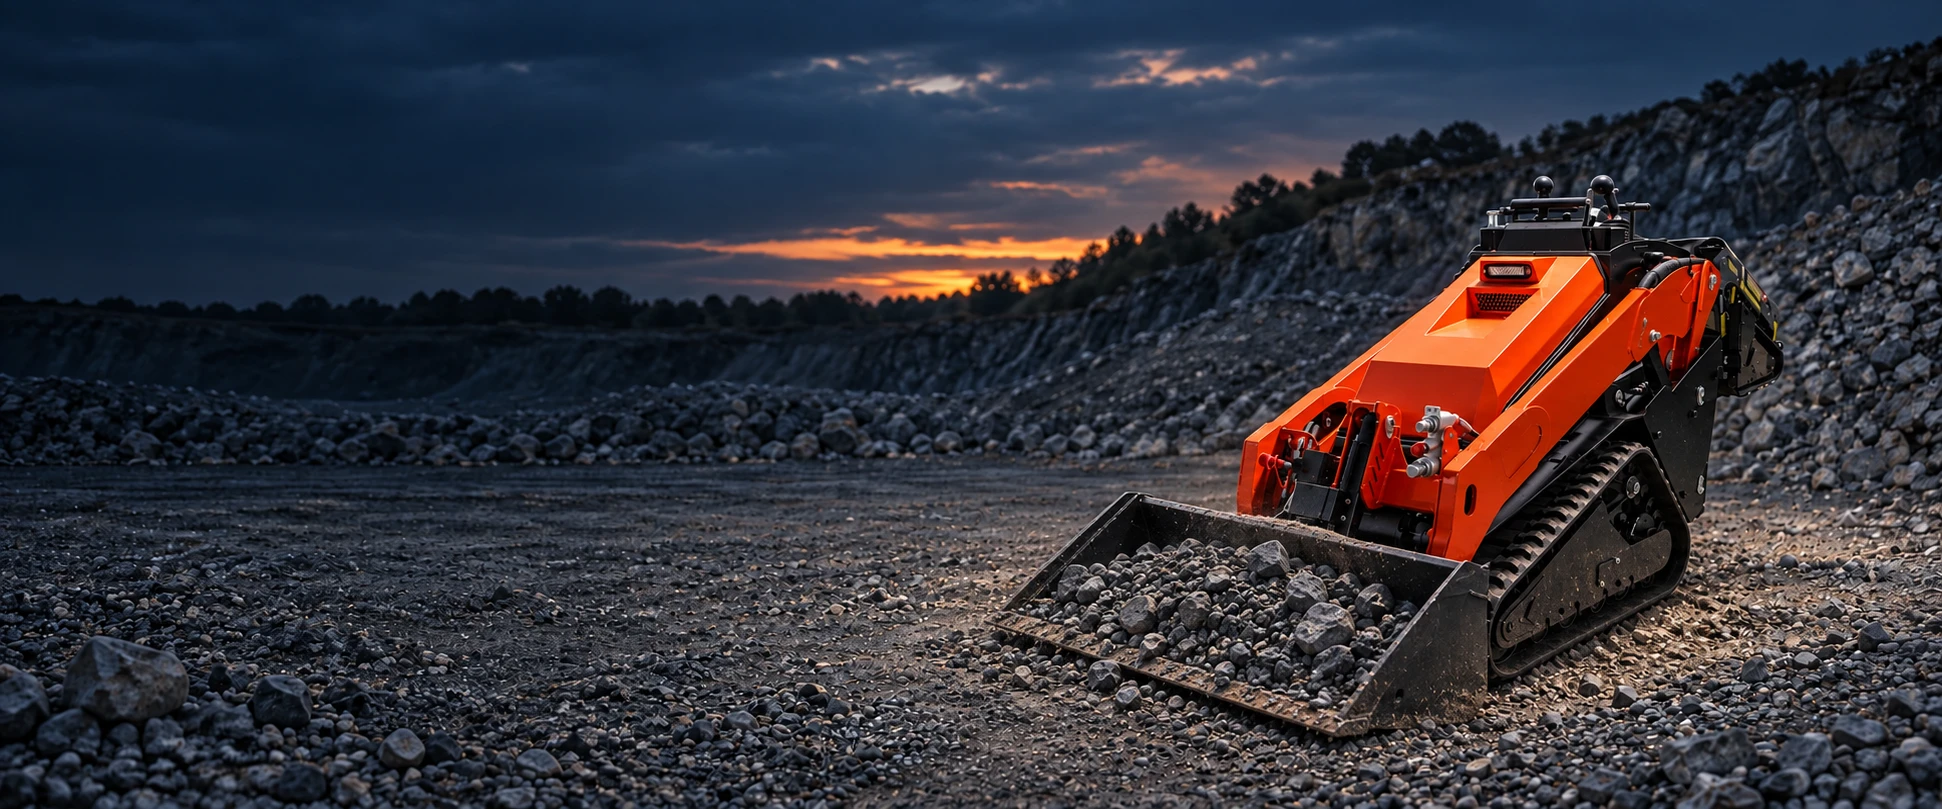
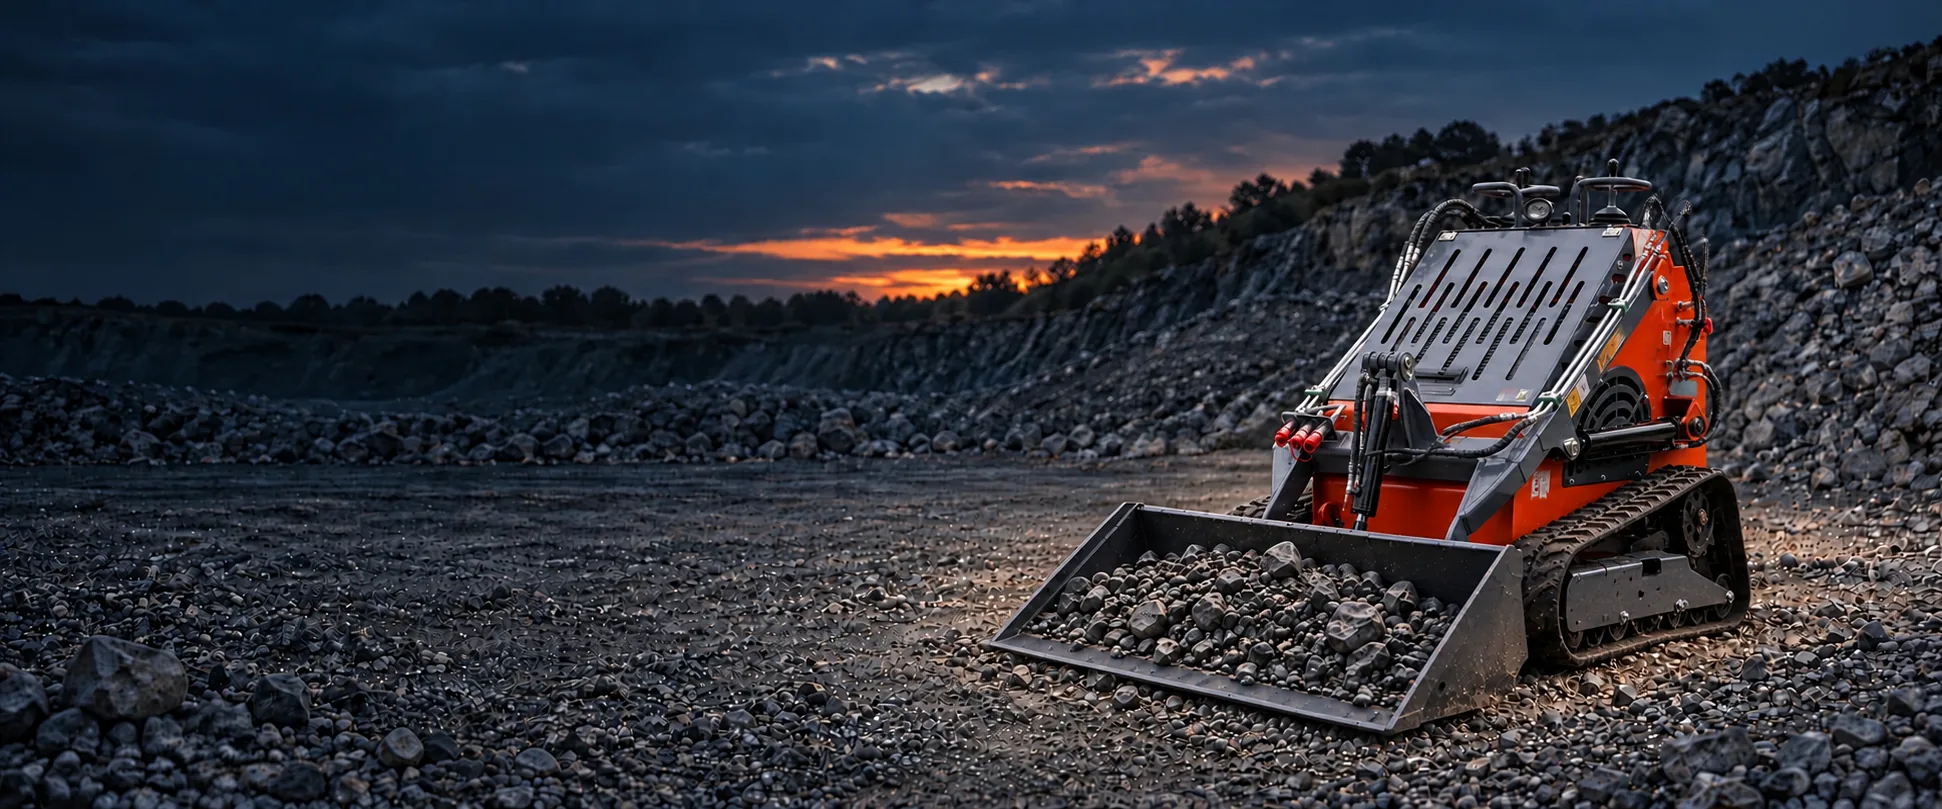
feat(home): show the BL-T360-H in the first hero slide (#169)
The site leads with the 360/460 loaders, so the first home hero slide now shows the BL-T360-H on the same dusk quarry background (codex-image edit from the real product photo). Default alt text names the new model.

diff --git a/inc/editable.php b/inc/editable.php
@@ -29,7 +29,7 @@ function bl_home_defaults(): array
             'link' => 'Talk to our team',
             'image' => '',
             'image_mobile' => '',
-            'alt' => 'Illustrative stone-quarry scene at dusk based on BOB-LIFT BL-T1000-H product photography',
+            'alt' => 'Illustration: a BOB-LIFT BL-T360-H tracked stand-on mini skid steer loader in a stone quarry at dusk, based on product photography',
         ],
         // The second hero slide; the switch above the picture names both slides after the family cards below.
         'hero_dumper' => [

diff --git a/docs/asset-sources.md b/docs/asset-sources.md
@@ -70,6 +70,16 @@ codex-image（gpt-image-2.5-sunburst）改图，参考图两张：FY30 实拍 `a
 
 **提示词要点**：Place this exact yellow BOB-LIFT FY30 site dumper (first image) into the same dusk stone-quarry scene, lighting and colour grade as the second image … dumper on the right third, 3/4 front view, skip loaded with grey gravel, warm rim light; left 55% calm and dark for headline text. Keep the dumper's shape, yellow colour, canopy, seat, steering wheel, tyres, rims, skip shape and the BOB-LIFT lettering exactly as in the photo; no other text or logos, no people.
 
+## 首页首屏 · BL-T360-H 滑移装载机（2026-10-29）
+
+| 页面文件 | 原生尺寸 | 用途 |
+| --- | --- | --- |
+| `assets/images/hero-banner-2k.webp` | 1942 × 809 | 首页首屏第一张（宽屏） |
+| `assets/images/hero-real-loader.webp` | 1536 × 1024 | 首页首屏第一张（手机 / 平板） |
+| `assets/images/hero-real-loader-portrait.webp` | 922 × 1024 | 手机竖屏切片（从上图 x=442 处切出） |
+
+主推 360/460，首屏机器由 BL-T1000-H 换成 BL-T360-H，背景不变。codex-image（gpt-image-2.5-sunburst）改图：以原首屏两张图为底图，只替换机器，车型依据为实拍 `assets/images/products/bl-360-4.webp`；宽屏版再改一次，把铲斗刃口修成与实拍一致的平刃。PNG 原图和与实拍的左右对比图在 `design-references/hero-bl360-2026-10-29/`。逐张对比：车身颜色、灰色动臂、开槽顶盖、油管与快插、履带、操作台与比例与实拍一致。替代文字写明是示意图（Illustration）。
+
 ## 产品目录 PDF（`assets/downloads/boblift-compact-equipment-catalogue.pdf`）
 
 2026-10-06 重做，替换原先 ImageMagick 拼成的无品牌供应商画册（纯图片、无文本层、含本站不卖的型号）。新版 27 页 A4：文本层可检索，带文档属性、书签、Tagged PDF 与图片替代文字，每款产品页有二维码和链接指向线上产品页。参数取自线上 18 款 `_bl_record`；图片全部为实拍（主题产品图、`assets/images/about/` 工厂照片、Mac `工作/滑移装载机(1)/照片/红色 360-460 站/` 原图、翻斗车画册 FY30 厂区图）。BL-T390-C / BL-T490-C 暂无实拍，页内放轮式 S390-C / S490-C 并注明。生成脚本与预览在项目共享文件夹 `bobliftloader/catalog-pdf/`。
